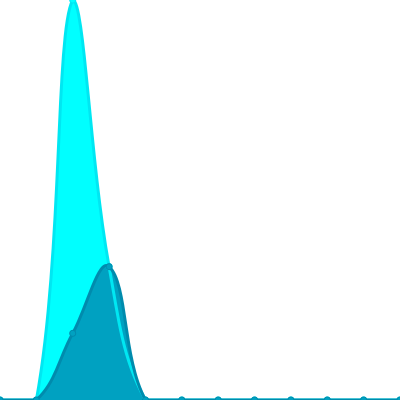
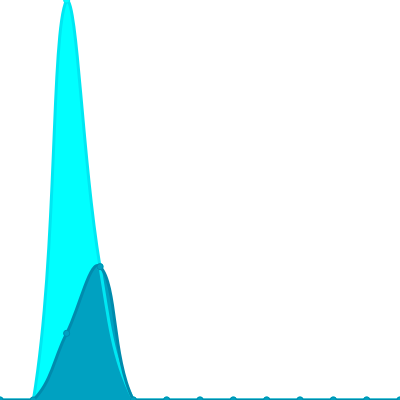
Update views

diff --git a/README.md b/README.md
@@ -26,7 +26,7 @@ The project created and maintained by [gayanvoice](https://github.com/gayanvoice
 			</a>
 		</td>
 		<td>
-			2025/2/27 1:00 AM UTC
+			2025/2/28 1:00 AM UTC
 		</td>
 		<td>
 			21
@@ -37,7 +37,7 @@ The project created and maintained by [gayanvoice](https://github.com/gayanvoice
 	</tr>
 </table>
 
-<small><i>Last updated on 2025/3/1 6:15 PM UTC</i></small>
+<small><i>Last updated on 2025/3/2 1:04 AM UTC</i></small>
 
 ## ✂Copy and 📋 Paste
 ### Total Views Badge

diff --git a/readme/620828141/year.md b/readme/620828141/year.md
@@ -20,6 +20,17 @@
 	</tr>
 	<tr>
 		<td>
+			<code>2025/3/1</code>
+		</td>
+		<td>
+			<code>0</code>
+		</td>
+		<td>
+			<code>0</code>
+		</td>
+	</tr>
+	<tr>
+		<td>
 			<code>2025/2/1</code>
 		</td>
 		<td>
@@ -153,7 +164,7 @@
 </table>
 
 </details>
-<small><i>Last updated on 2025/3/1 6:15 PM UTC</i></small>
+<small><i>Last updated on 2025/3/2 1:04 AM UTC</i></small>
 
 ## ✂Copy and 📋 Paste
 ### SVG Badge
